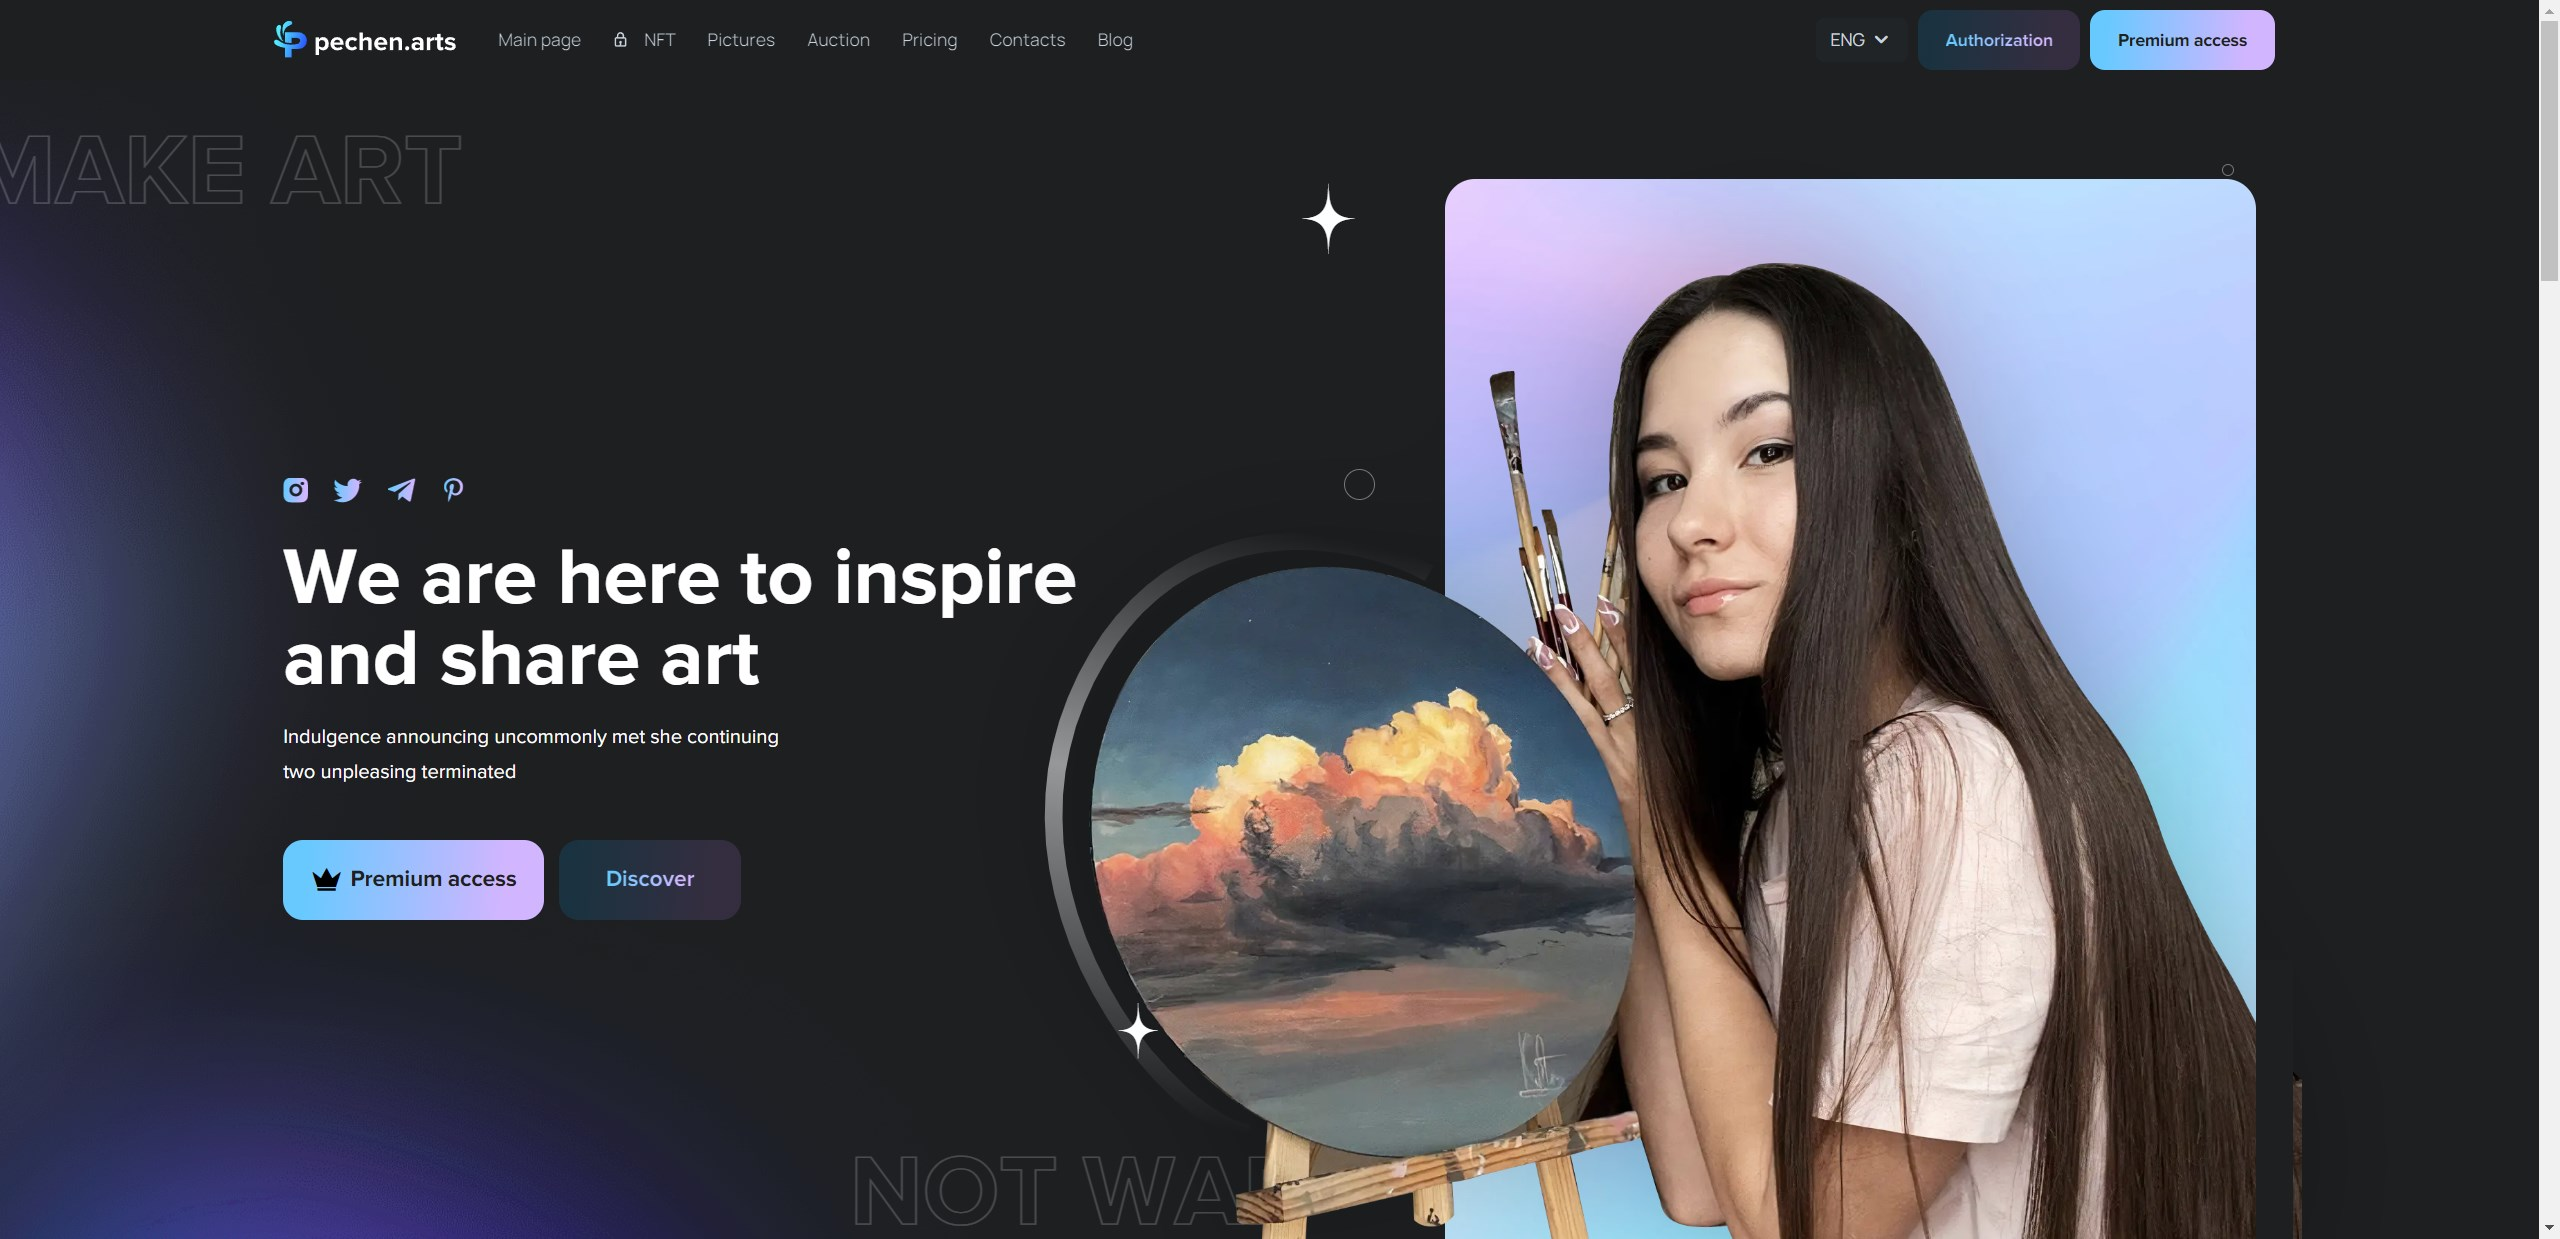
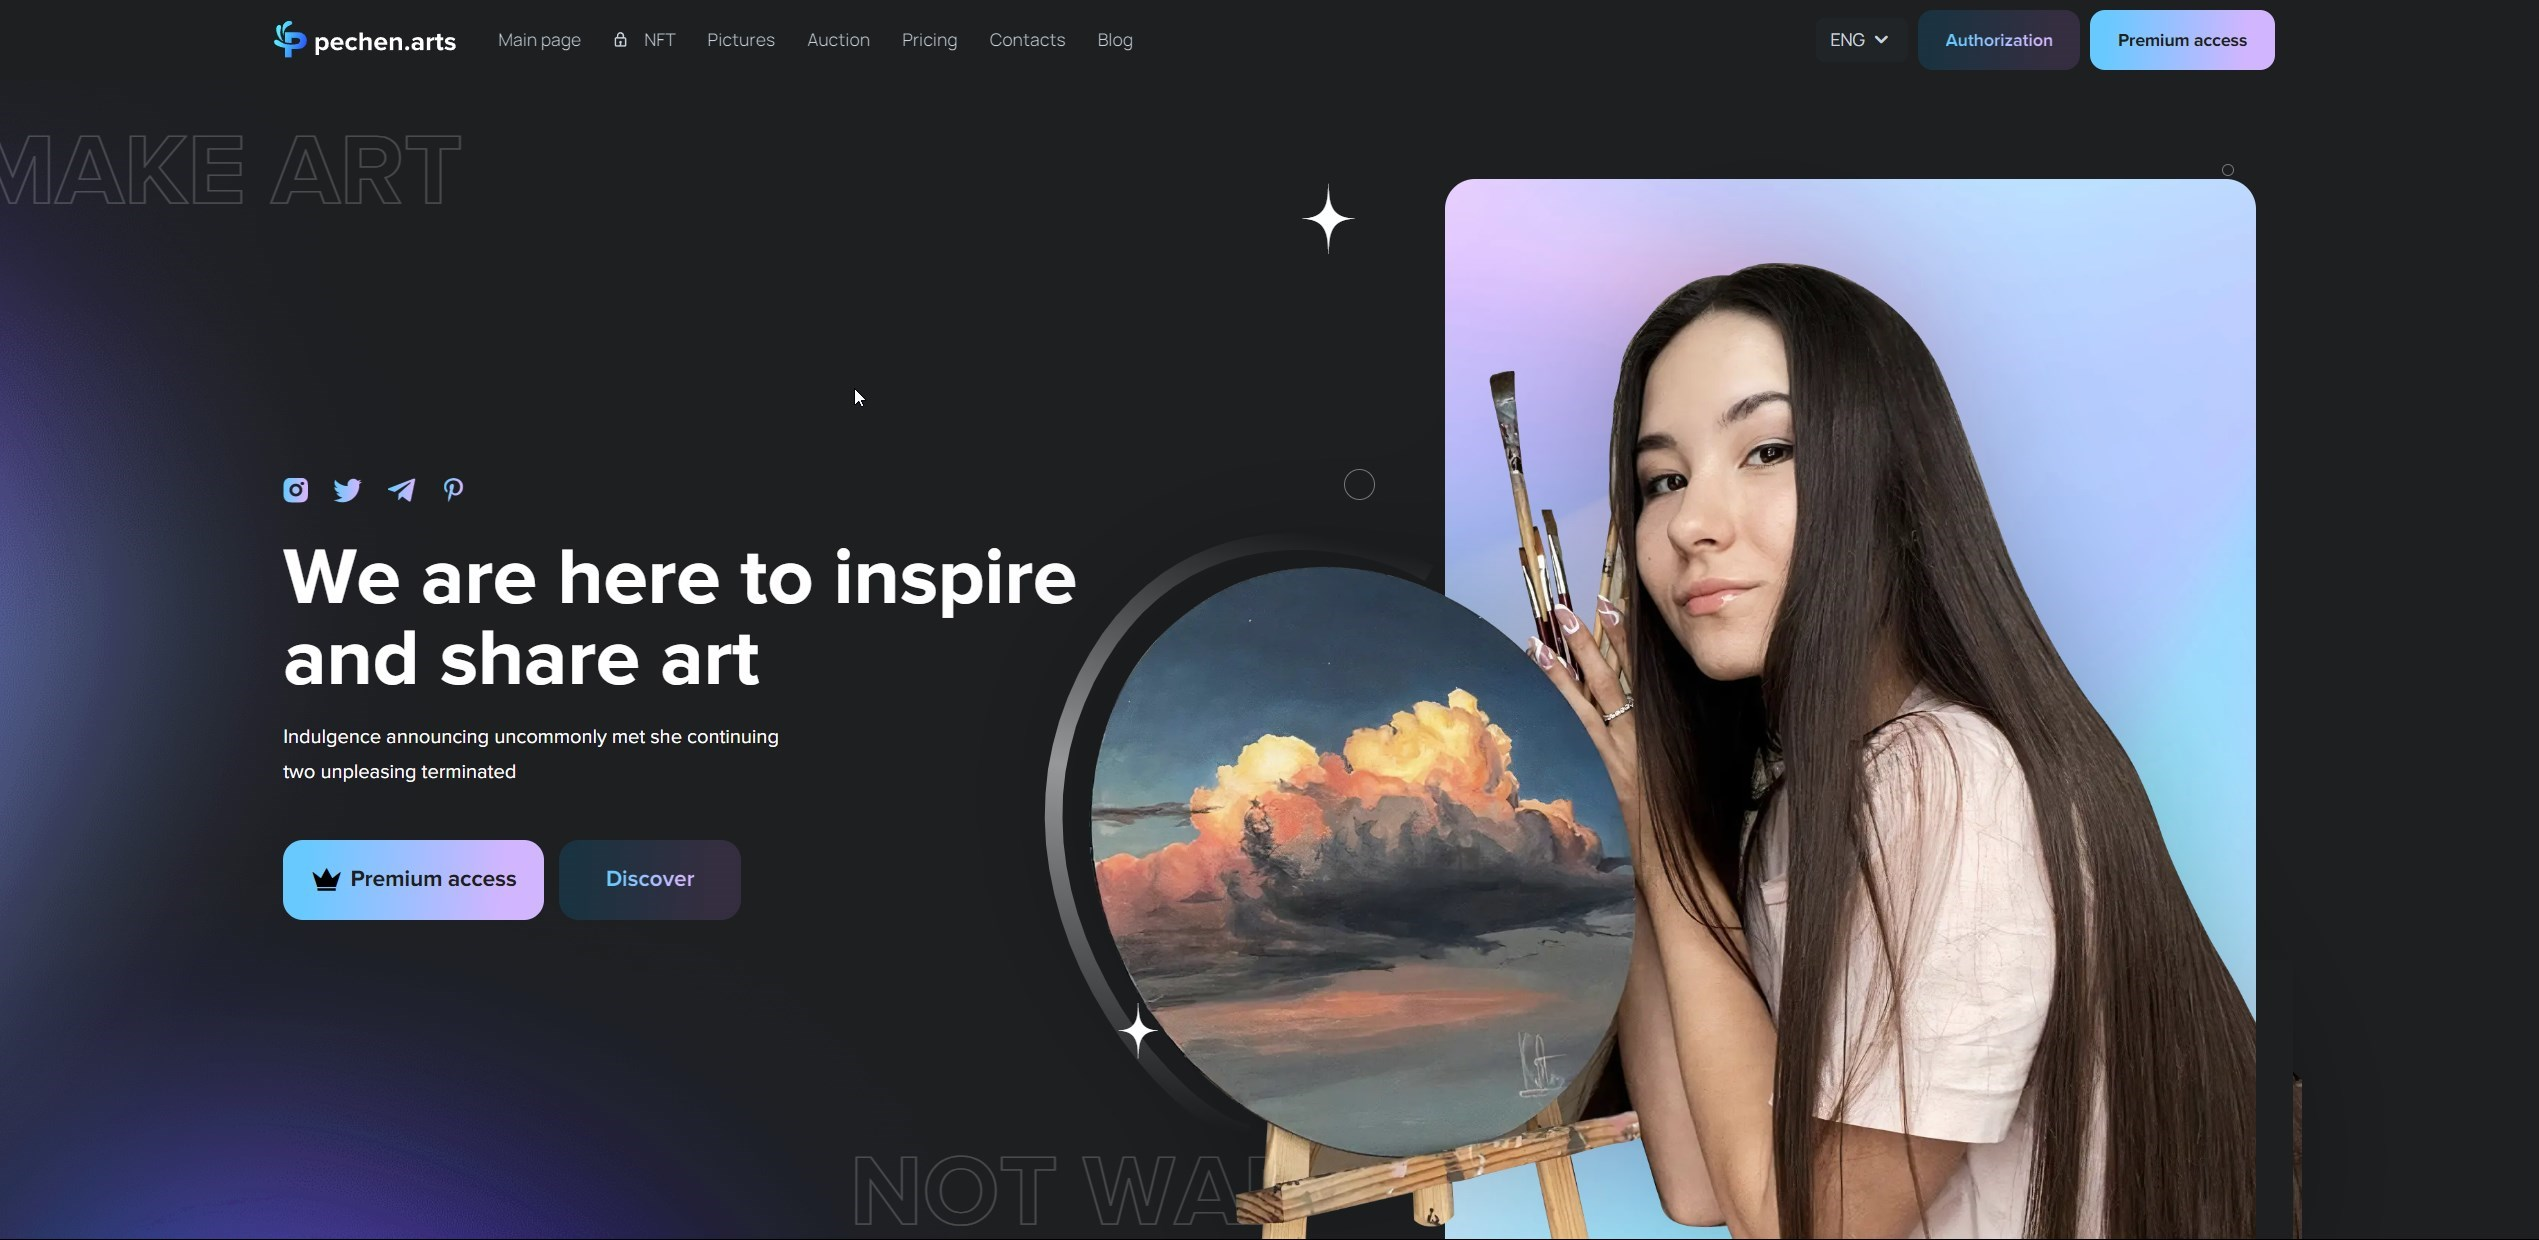
fix: fixed img size

diff --git a/style.css b/style.css
@@ -284,9 +284,11 @@ body::before {
 .exp {
   padding: 25px 0;
 }
+
 .exp .section__title::after {
   max-width: 600px;
 }
+
 .exp__inner {
   display: flex;
   align-items: center;
@@ -294,10 +296,12 @@ body::before {
   gap: 30px;
   max-width: 600px;
 }
+
 .exp__project {
   position: relative;
   overflow: hidden;
 }
+
 .exp__project::after {
   position: absolute;
   content: '';
@@ -305,18 +309,23 @@ body::before {
   background-color: rgba(0,0,0,0);
   transition: all .5s ease;
 }
+
 .exp__project:hover::after {
   background-color: rgba(0,0,0,0.5);
 }
+
 .exp__desc {
   position: absolute;
   left: 10px;
   transition: all .5s ease;
   z-index: 2;
+  font-weight: 700;
 }
+
 .exp__project:hover .exp__desc {
   transform: translateY(-30px);
 }
+
 .code {
   padding-bottom: 25px;
 }
